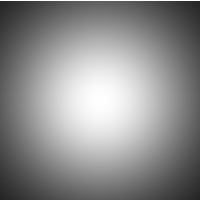
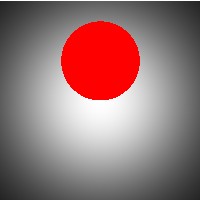
Add sphere

Changed region(s): [[0.3, 0.09, 0.72, 0.51]]

diff --git a/main.go b/main.go
@@ -20,21 +20,31 @@ func main() {
 	vup := NewVector(0, 0, 1)
 
 	c := NewCamera(lookFrom, lookAt, vup, 0.5, 1.0)
+	sphere := &Sphere{NewVector(0, 0.0, 0.2), 0.2}
 	look := lookAt.Sub(lookFrom)
 	fmt.Println(c)
 	for i := 0; i < height; i++ {
 		for j := 0; j < width; j++ {
 			ray := c.GetRay(float64(j) / float64(width), float64(i)/ float64(height))
-			look := math.Abs(Normalize(ray.Dir).InnerProduct(Normalize(look)))
-			unconcern := uint8(math.Pow(look, 32.0) * 255.0)
-			print(unconcern)
-			print(" ")
-			img.Set(j, height-i, color.RGBA{
-				unconcern,
-				unconcern,
-				unconcern,
-				255,
-			})
+			if sphere.Hit(ray) {
+				img.Set(j, height-i, color.RGBA{
+					255,
+					0,
+					0,
+					255,
+				})
+			} else {
+				look := math.Abs(Normalize(ray.Dir).InnerProduct(Normalize(look)))
+				unconcern := uint8(math.Pow(look, 32.0) * 255.0)
+				print(unconcern)
+				print(" ")
+				img.Set(j, height-i, color.RGBA{
+					unconcern,
+					unconcern,
+					unconcern,
+					255,
+				})
+			}
 		}
 		println()
 	}

diff --git a/sphere.go b/sphere.go
@@ -1,1 +1,15 @@
 package main
+
+type Sphere struct{
+	center *Vector
+	r float64
+}
+
+func (s *Sphere)Hit(ray *Ray) bool {
+	a := ray.Dir.InnerProduct(ray.Dir)
+	b := 2.0 * ray.Dir.InnerProduct(ray.Origin.Sub(s.center))
+	c := ray.Origin.Sub(s.center).InnerProduct(ray.Origin.Sub(s.center)) - s.r * s.r
+
+	D := b*b - 4*a*c
+	return D > 0
+}
